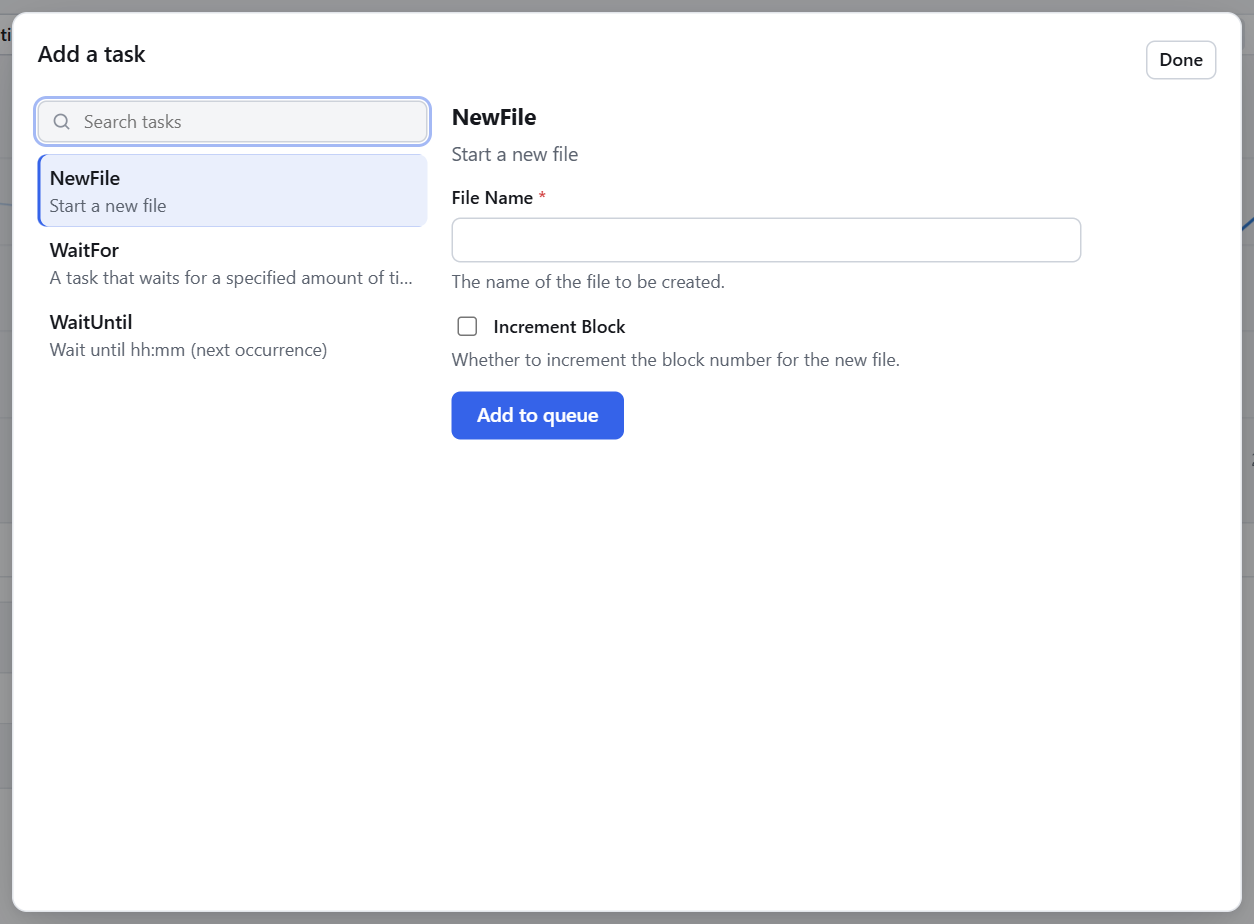
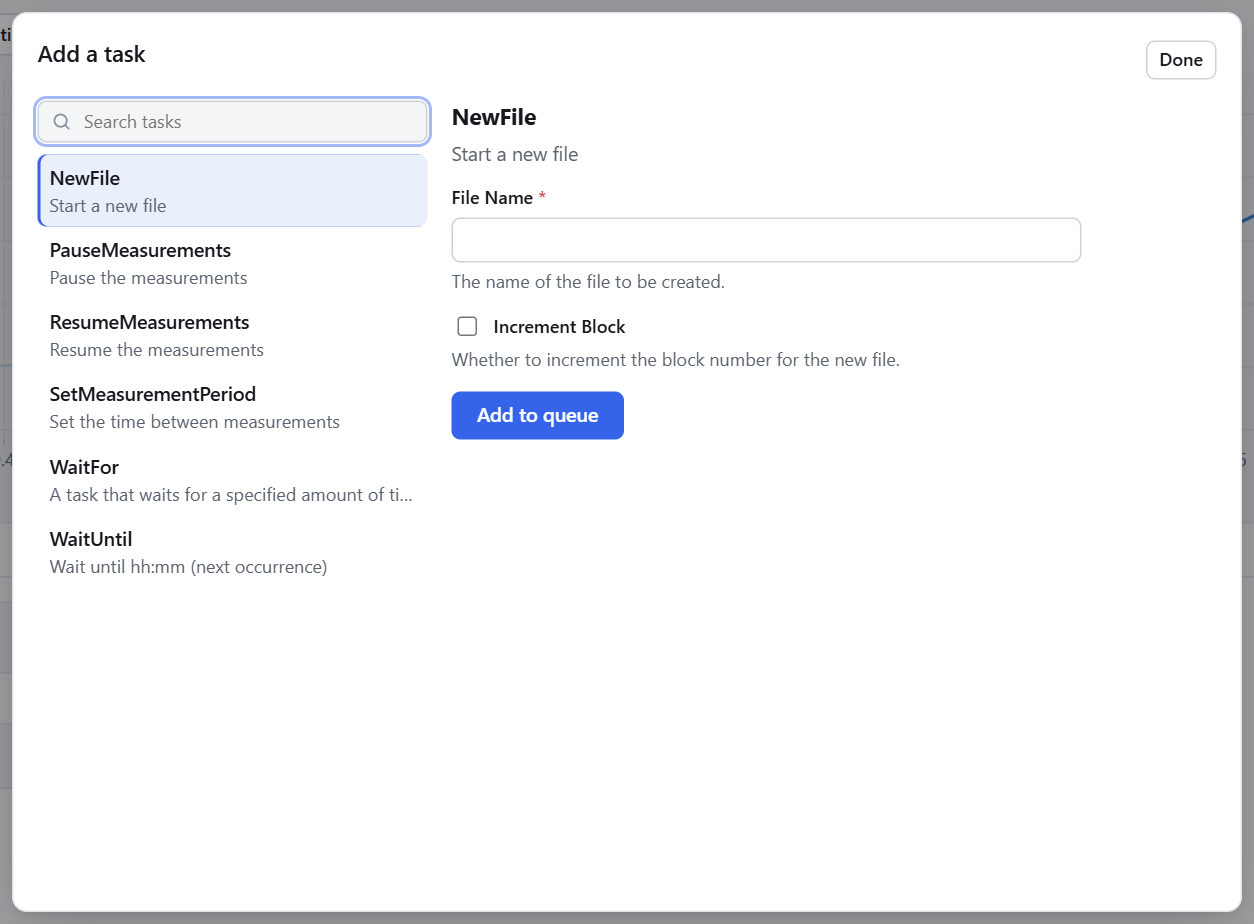
Pause, resume and set the measurement period as tasks
PauseMeasurements, ResumeMeasurements and SetMeasurementPeriod join NewFile,
WaitFor and WaitUntil as the tasks every experiment has, so the measurements
can be paused or slowed at a point in a queue, or in a saved sequence.

diff --git a/tests/unit/test_measurement_tasks.py b/tests/unit/test_measurement_tasks.py
@@ -1,0 +1,92 @@
+"""The tasks every experiment has for its measurements (tasks/measurements.py):
+pausing and resuming them, and setting the time between them."""
+
+import asyncio
+
+import pytest
+from fastapi.testclient import TestClient
+
+from pyacquisition import Experiment
+from pyacquisition.tasks import PauseMeasurements, ResumeMeasurements, SetMeasurementPeriod
+
+NAMES = ["pausemeasurements", "resumemeasurements", "setmeasurementperiod"]
+
+
+@pytest.fixture
+def experiment(tmp_path):
+    experiment = Experiment(root_path=str(tmp_path), gui=False)
+    experiment.add_task_manager("control")
+    return experiment
+
+
+def run(experiment, task):
+    asyncio.run(task.start(experiment=experiment))
+    assert task.outcome == "completed", task.failure
+
+
+def test_pausing_and_resuming_the_measurements(experiment):
+    rack = experiment._rack
+    assert not rack.paused
+
+    run(experiment, PauseMeasurements())
+    assert rack.paused
+    run(experiment, PauseMeasurements())  # already paused: nothing more
+    assert rack.paused
+
+    run(experiment, ResumeMeasurements())
+    assert not rack.paused
+    run(experiment, ResumeMeasurements())  # already running: nothing more
+    assert not rack.paused
+
+
+def test_setting_the_period(experiment):
+    run(experiment, SetMeasurementPeriod(period=2.5))
+
+    assert experiment._rack.period == 2.5
+
+
+@pytest.mark.parametrize("period", [0, -1.0])
+def test_a_period_that_isnt_above_zero_is_refused(experiment, period):
+    with pytest.raises(ValueError, match="above zero"):
+        SetMeasurementPeriod(period=period)
+
+    response = TestClient(experiment._api_server.app).get(
+        "/tasks/setmeasurementperiod", params={"period": period}
+    )
+    assert response.status_code == 422
+    assert "above zero" in response.json()["detail"]
+
+
+def test_every_task_manager_has_them(experiment):
+    paths = TestClient(experiment._api_server.app).get("/openapi.json").json()["paths"]
+
+    for name in NAMES:
+        assert f"/tasks/{name}" in paths
+        assert f"/managers/control/tasks/{name}" in paths
+        assert "tasks" in paths[f"/tasks/{name}"]["get"]["tags"]
+
+
+def test_they_are_queued_saved_and_loaded_in_a_sequence(experiment):
+    client = TestClient(experiment._api_server.app)
+    client.get("/tasks/pausemeasurements")
+    client.get("/tasks/setmeasurementperiod", params={"period": 10})
+    client.get("/tasks/resumemeasurements")
+    manager = experiment._task_managers["main"]
+
+    entries, skipped = manager.saveable()
+    manager._task_queue._queue.clear()
+    manager.queue_saved(entries)
+
+    assert skipped == []
+    queued = list(manager._task_queue._queue)
+    assert [task.name for task in queued] == [
+        "PauseMeasurements",
+        "SetMeasurementPeriod",
+        "ResumeMeasurements",
+    ]
+    assert queued[1].period == 10
+    assert [task.description for task in queued] == [
+        "Pausing the measurements",
+        "Measuring every 10.0 s",
+        "Resuming the measurements",
+    ]

diff --git a/src/pyacquisition/tasks/measurements.py b/src/pyacquisition/tasks/measurements.py
@@ -1,0 +1,68 @@
+from ..core import Task
+from dataclasses import dataclass
+
+
+@dataclass
+class PauseMeasurements(Task):
+    """Pause the measurements
+
+    No rows are measured or written until they are resumed, by
+    `ResumeMeasurements` or the top bar's button. The queue carries on. If they
+    are already paused, it does nothing.
+    """
+
+    @property
+    def description(self) -> str:
+        return "Pausing the measurements"
+
+    async def run(self, experiment):
+        if experiment._rack.paused:
+            self.log("The measurements are already paused.")
+        else:
+            experiment._rack.pause()
+
+
+@dataclass
+class ResumeMeasurements(Task):
+    """Resume the measurements
+
+    Measuring and writing rows starts again. If the measurements are already
+    running, it does nothing.
+    """
+
+    @property
+    def description(self) -> str:
+        return "Resuming the measurements"
+
+    async def run(self, experiment):
+        if experiment._rack.paused:
+            experiment._rack.resume()
+        else:
+            self.log("The measurements are already running.")
+
+
+@dataclass
+class SetMeasurementPeriod(Task):
+    """Set the time between measurements
+
+    The measurements are taken every `period` seconds from then on, or as often
+    as measuring allows, if it takes longer.
+
+    Attributes:
+        period (float): The time between measurements, in seconds (above zero).
+    """
+
+    period: float
+
+    def __post_init__(self):
+        super().__post_init__()
+        if not self.period > 0:
+            raise ValueError(f"The period must be above zero, not {self.period}.")
+
+    @property
+    def description(self) -> str:
+        return f"Measuring every {self.period} s"
+
+    async def run(self, experiment):
+        experiment._rack.period = self.period
+        self.log(f"Measuring every {self.period} s.")

diff --git a/src/pyacquisition/tasks/__init__.py b/src/pyacquisition/tasks/__init__.py
@@ -1,5 +1,6 @@
 from .wait import WaitFor, WaitUntil
 from .files import NewFile
+from .measurements import PauseMeasurements, ResumeMeasurements, SetMeasurementPeriod
 from .ramp_temperature import RampTemperature as RampTemperature
 from .field_sweep import RampMagnet as RampMagnet
 from .field_sweep import RampMagnetToZero as RampMagnetToZero
@@ -8,7 +9,14 @@ from .pid import PID as PID
 from .pid import PIDController as PIDController
 
 
-standard_tasks = [NewFile, WaitFor, WaitUntil]
+standard_tasks = [
+    NewFile,
+    WaitFor,
+    WaitUntil,
+    PauseMeasurements,
+    ResumeMeasurements,
+    SetMeasurementPeriod,
+]
 
 # Registered by themselves when an instrument they are for is in the experiment.
 # What a task is for is its `applies_to`.

diff --git a/tests/unit/test_auto_tasks.py b/tests/unit/test_auto_tasks.py
@@ -54,7 +54,14 @@ def test_the_leaf_tasks_are_left_out_and_the_standard_tasks_stay_as_they_were():
     assert instrument_tasks == [RampTemperature, SweepMagneticField]
     assert RampMagnet not in instrument_tasks
     assert RampMagnetToZero not in instrument_tasks
-    assert len(standard_tasks) == 3
+    assert [task.__name__ for task in standard_tasks] == [
+        "NewFile",
+        "WaitFor",
+        "WaitUntil",
+        "PauseMeasurements",
+        "ResumeMeasurements",
+        "SetMeasurementPeriod",
+    ]
 
 
 @pytest.mark.parametrize("task", instrument_tasks)

diff --git a/src/pyacquisition/core/rack.py b/src/pyacquisition/core/rack.py
@@ -97,6 +97,11 @@ class Rack(Broadcaster):
         logger.info("Measurements resumed.")
 
     @property
+    def paused(self) -> bool:
+        """Whether the measurements are paused."""
+        return not self._pause_event.is_set()
+
+    @property
     def loop_time(self) -> float | None:
         """
         The time the latest loops actually took, start to start, on average: the

diff --git a/docs/usage/tasks.md b/docs/usage/tasks.md
@@ -238,7 +238,7 @@ Both are listed in **Add task**, asking only for `seconds`.
 
 ### Tasks that are already included
 
-A few tasks come with `pyacquisition`. `NewFile`, `WaitFor` and `WaitUntil` are always registered for you.
+A few tasks come with `pyacquisition`. `NewFile`, `WaitFor` and `WaitUntil` are always registered for you, and so are `PauseMeasurements`, `ResumeMeasurements` and `SetMeasurementPeriod`, to pause the measurements or change how often they are taken at a point in a queue ([Measurements](../tasks/measurements.md)).
 
 **Tasks for an instrument register themselves when it is there.** `RampTemperature` is for the Lakeshore 340 and 350, and `SweepMagneticField` is for the Mercury IPS. Add one of those instruments, in `setup()` or in a [TOML file](toml_config.md), and its task can be queued (as **Ramp Temperature** and **Sweep Magnetic Field**) with nothing else to write. They are registered once `setup()` has finished, so it does not matter in which order you add things.
 

diff --git a/docs/usage/first_task.md b/docs/usage/first_task.md
@@ -14,7 +14,7 @@ A few tasks are already included. Open the **Queue** tab (press ++2++) and press
 
 ![The Add a task window, with the standard tasks](../images/tutorial/add-task.png){ .pa-shot .pa-medium }
 
-`NewFile` starts a new data file, `WaitFor` waits for a time, and `WaitUntil` waits until a clock time. Your own tasks will join them in a moment. Press **Done** to close it.
+`NewFile` starts a new data file, `WaitFor` waits for a time, and `WaitUntil` waits until a clock time. `PauseMeasurements`, `ResumeMeasurements` and `SetMeasurementPeriod` pause the measurements, start them again, or change how often they are taken. Your own tasks will join them in a moment. Press **Done** to close it.
 
 ## Write the task
 

diff --git a/docs/tasks/measurements.md b/docs/tasks/measurements.md
@@ -1,0 +1,7 @@
+Every experiment has these three tasks, on every task manager, as it has `NewFile`, `WaitFor` and `WaitUntil`. Queue them to pause or slow the measurements at a point in a queue, or save them in a sequence: a pause while a magnet ramps, or a longer period overnight. To do it at once instead, use the top bar's **Measurements** button, or ++ctrl+k++ (**Pause measurements**, **Set measurement period**).
+
+::: pyacquisition.tasks.measurements.PauseMeasurements
+
+::: pyacquisition.tasks.measurements.ResumeMeasurements
+
+::: pyacquisition.tasks.measurements.SetMeasurementPeriod

diff --git a/docs/tasks/overview.md b/docs/tasks/overview.md
@@ -18,6 +18,14 @@ The following tasks are registered to your experiment by default.
 
 `STANDARD` [`Task` **WaitUntil**](wait_until.md) - Wait until a specified time (24 hr clock).
 
+#### Measurements
+
+`STANDARD` [`Task` **PauseMeasurements**](measurements.md) - Pause the measurements.
+
+`STANDARD` [`Task` **ResumeMeasurements**](measurements.md) - Resume the measurements.
+
+`STANDARD` [`Task` **SetMeasurementPeriod**](measurements.md) - Set the time between measurements.
+
 
 ## With an instrument
 
